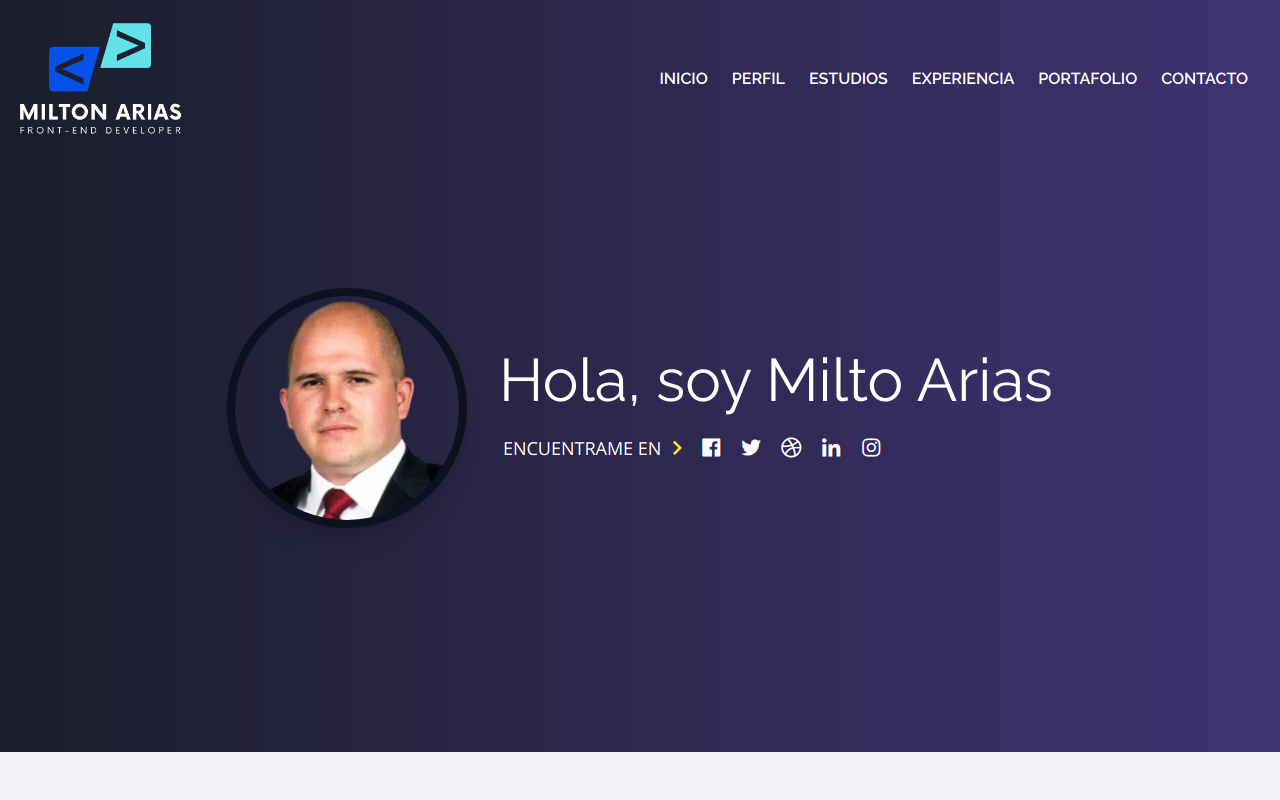
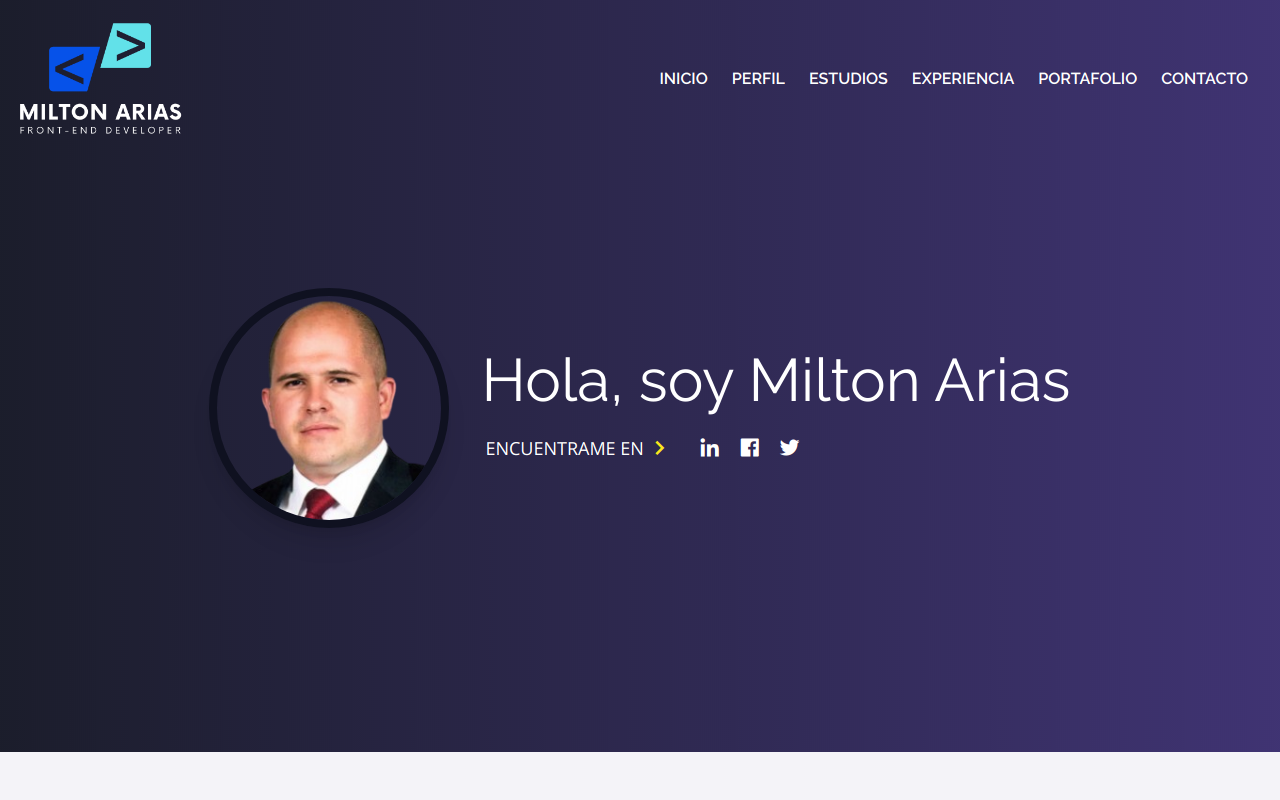
Tercer commit

Changed region(s): [[0.1875, 0.3438, 0.8438, 0.6562]]

diff --git a/src/components/Profile.jsx b/src/components/Profile.jsx
@@ -6,46 +6,37 @@ export default function Profile() {
       <div className="container flex flex-col items-center py-16 md:py-20 lg:flex-row">
         <div className="w-full text-center sm:w-3/4 lg:w-3/5 lg:text-left">
           <h2 className="font-header text-4xl font-semibold uppercase text-primary sm:text-5xl lg:text-6xl">
-            Who am I?
+          ¿Quién soy?
           </h2>
           <h4 className="pt-6 font-header text-xl font-medium text-black sm:text-2xl lg:text-3xl">
-            I'm Christy Smith, a Web Designer & Photographer
+          Soy Milton Arias, Front-End Developer
           </h4>
           <p className="pt-6 font-body leading-relaxed text-grey-20">
-            Lorem ipsum dolor sit amet, consectetur adipisicing elit, sed do
-            eiusmod tempor incididunt ut labore et dolore magna aliqua. Ut enim
-            ad minim veniam, quis nostrud exercitation ullamco laboris nisi ut
-            aliquip ex ea commodo consequat. Duis aute irure dolor in
-            reprehenderit in voluptate velit esse cillum dolore eu fugiat nulla
-            pariatur. Excepteur sint occaecat cupidatat non proident, sunt in
-            culpa qui officia deserunt mollit anim id est laborum.
+             Soy un apasionado por la tecnología, especialmente por el desarrollo Web, me gusta aprender
+             contantemente y soy bueno trabajando en equipo, en este momento de mi vida despues de haber
+             trabajado por 8 años en infrestructura, mi deseo mas grande es seguir aprendiendo sobre desarrollo web
+             y poder crear proyectos de calidad.
           </p>
           <div className="flex flex-col justify-center pt-6 sm:flex-row lg:justify-start">
             <div className="flex items-center justify-center sm:justify-start">
               <p className="font-body text-lg font-semibold uppercase text-grey-20">
-                Connect with me
+              Conecta conmigo
               </p>
               <div className="hidden sm:block">
                 <i className="bx bx-chevron-right text-2xl text-primary"></i>
               </div>
             </div>
             <div className="flex items-center justify-center pt-5 pl-2 sm:justify-start sm:pt-0">
-              <a href="/">
-                <i className="bx bxl-facebook-square text-2xl text-primary hover:text-yellow"></i>
-              </a>
-              <a href="/" className="pl-4">
-                <i className="bx bxl-twitter text-2xl text-primary hover:text-yellow"></i>
-              </a>
-              <a href="/" className="pl-4">
-                <i className="bx bxl-dribbble text-2xl text-primary hover:text-yellow"></i>
-              </a>
-              <a href="/" className="pl-4">
+            <a href="https://www.linkedin.com/in/miltonjac/https://www.linkedin.com/in/miltonjac/" target="_blank" className="pl-4">
                 <i className="bx bxl-linkedin text-2xl text-primary hover:text-yellow"></i>
               </a>
-              <a href="/" className="pl-4">
-                <i className="bx bxl-instagram text-2xl text-primary hover:text-yellow"></i>
+              <a href="https://www.facebook.com/pamelw" target="_blank" className="pl-4" >
+                <i className="bx bxl-facebook-square text-2xl text-primary hover:text-yellow"></i>
               </a>
-            </div>
+              <a href="https://twitter.com/mj_ariass" target="_blank" className="pl-4">
+                <i className="bx bxl-twitter text-2xl text-primary hover:text-yellow"></i>
+              </a>
+              </div>
           </div>
         </div>
         <div className="w-full pl-0 pt-10 sm:w-3/4 lg:w-2/5 lg:pl-12 lg:pt-0">
@@ -55,13 +46,13 @@ export default function Profile() {
                 HTML & CSS
               </h4>
               <h3 className="font-body text-3xl font-bold text-primary">
-                100%
+                85%
               </h3>
             </div>
             <div className="mt-2 h-3 w-full rounded-full bg-lila">
               <div
                 className="h-3 rounded-full bg-primary"
-                style={{"width": '100%'}}
+                style={{"width": '85%'}}
               ></div>
             </div>
           </div>
@@ -71,13 +62,13 @@ export default function Profile() {
                 Javascript
               </h4>
               <h3 className="font-body text-3xl font-bold text-primary">
-                100%
+                70%
               </h3>
             </div>
             <div className="mt-2 h-3 w-full rounded-full bg-lila">
               <div
                 className="h-3 rounded-full bg-primary"
-                style={{"width": "100%"}}
+                style={{"width": "70%"}}
               ></div>
             </div>
           </div>
@@ -87,13 +78,13 @@ export default function Profile() {
                 React JS
               </h4>
               <h3 className="font-body text-3xl font-bold text-primary">
-                100%
+                50%
               </h3>
             </div>
             <div className="mt-2 h-3 w-full rounded-full bg-lila">
               <div
                 className="h-3 rounded-full bg-primary"
-                style={{"width": "100%"}}
+                style={{"width": "50%"}}
               ></div>
             </div>
           </div>
@@ -102,12 +93,12 @@ export default function Profile() {
               <h4 className="font-body font-semibold uppercase text-black">
                 Figma
               </h4>
-              <h3 className="font-body text-3xl font-bold text-primary">98%</h3>
+              <h3 className="font-body text-3xl font-bold text-primary">95%</h3>
             </div>
             <div className="mt-2 h-3 w-full rounded-full bg-lila">
               <div
                 className="h-3 rounded-full bg-primary"
-                style={{"width": "98%"}}
+                style={{"width": "95%"}}
               ></div>
             </div>
           </div>

diff --git a/src/components/Experiencia.jsx b/src/components/Experiencia.jsx
@@ -7,7 +7,7 @@ export default function Experiencia() {
   return (
     <div className="container py-16 md:py-20" id="work">
       <h2 className="text-center font-header text-4xl font-semibold uppercase text-primary sm:text-5xl lg:text-6xl">
-        Mi Experiencia de trabajo
+        Mi Experiencia laboral
       </h2>
       <h3 className="pt-6 text-center font-header text-xl font-medium text-black sm:text-2xl lg:text-3xl">
         Estas son las empresas para las que he trabajado
@@ -77,56 +77,14 @@ export default function Experiencia() {
                 <i className="bx bxs-right-arrow hidden text-primary md:block"></i>
                 <div className="md:-mt-1 md:pl-8">
                   <span className="block font-body font-bold text-grey-40">
-                    Mar 2018 - September 2019
+                    Sept 2015 - Sept 2022
                   </span>
                   <span className="block pt-2 font-header text-xl font-bold uppercase text-primary">
-                    Software Engineer
+                    Consultor en Sistemas
                   </span>
                   <div className="pt-2">
                     <span className="block font-body text-black">
-                      Lorem ipsum dolor sit amet, consectetur adipiscing elit.
-                      Vestibulum mattis felis vitae risus pulvinar tincidunt.
-                      Nam ac venenatis enim.
-                    </span>
-                  </div>
-                </div>
-              </div>
-            </div>
-          </div>
-        </div>
-        <div className="mt-8 flex flex-col text-center md:flex-row md:text-left">
-          <div className="md:w-2/5">
-            <div className="flex justify-center md:justify-start">
-              <span className="shrink-0">
-                <img
-                  src={spotify}
-                  className="h-auto w-32"
-                  alt="company logo"
-                />
-              </span>
-              <div className="relative ml-3 hidden w-full md:block">
-                <span className="absolute inset-x-0 top-1/2 h-0.5 -translate-y-1/2 transform bg-grey-70"></span>
-              </div>
-            </div>
-          </div>
-          <div className="md:w-3/5">
-            <div className="relative flex md:pl-18">
-              <span className="absolute left-8 top-1 hidden h-4 w-4 rounded-full border-2 border-grey-40 bg-white md:block"></span>
-
-              <div className="mt-1 flex">
-                <i className="bx bxs-right-arrow hidden text-primary md:block"></i>
-                <div className="md:-mt-1 md:pl-8">
-                  <span className="block font-body font-bold text-grey-40">
-                    October 2019 - Feb 2021
-                  </span>
-                  <span className="block pt-2 font-header text-xl font-bold uppercase text-primary">
-                    DevOps Engineer
-                  </span>
-                  <div className="pt-2">
-                    <span className="block font-body text-black">
-                      Lorem ipsum dolor sit amet, consectetur adipiscing elit.
-                      Vestibulum mattis felis vitae risus pulvinar tincidunt.
-                      Nam ac venenatis enim.
+                      Administrador de la infraestructura tecnologíca, desarrollo y administración del sitio web.
                     </span>
                   </div>
                 </div>
